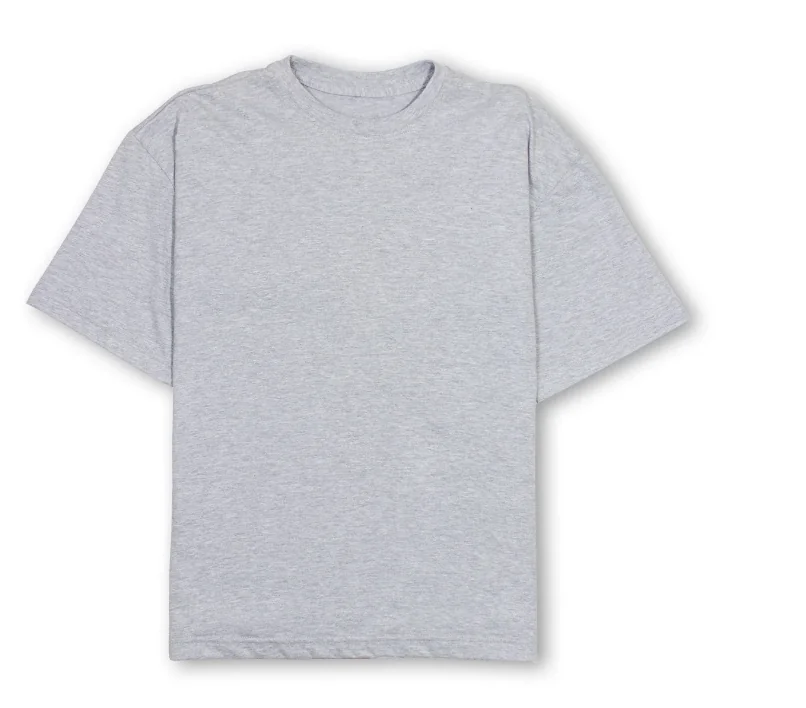
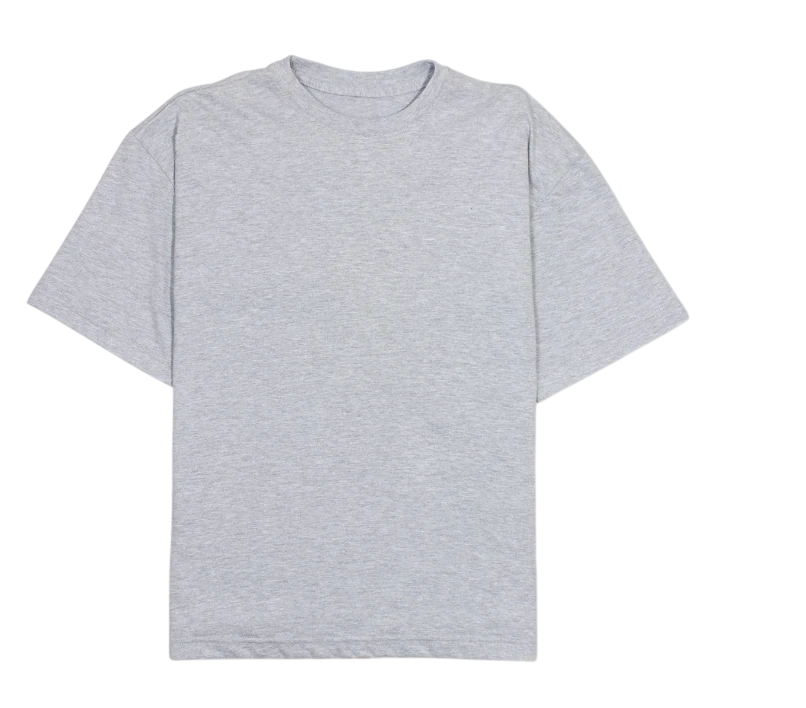
Use background-removed product photos, drop the white card
Swap in the transparent-background versions of the 6 product photos
and remove the white background box behind them in ProductCard and
CartItem, so each t-shirt floats directly on the dark card with a soft
drop shadow instead of sitting in a white square. Clean up the leftover
raw uploads (unedited originals and the raw Photoroom exports) that are
no longer referenced.

Claude-Session: https://claude.ai/code/session_01SKvkthwTi175Cfhhe1342E

diff --git a/store/src/components/ProductCard.tsx b/store/src/components/ProductCard.tsx
@@ -41,13 +41,13 @@ export default function ProductCard({ product, index }: ProductCardProps) {
       whileHover={{ y: -6 }}
       className="group flex flex-col overflow-hidden rounded-2xl border border-white/10 bg-brand-charcoal transition-colors hover:border-brand-green/40"
     >
-      <div className="relative aspect-square overflow-hidden bg-brand-white">
+      <div className="relative aspect-square overflow-hidden bg-gradient-to-b from-white/[0.04] to-transparent">
         <motion.img
           src={product.image}
           alt={product.imageAlt}
           loading="lazy"
           decoding="async"
-          className="h-full w-full object-contain p-6"
+          className="h-full w-full object-contain p-8 drop-shadow-[0_18px_24px_rgba(0,0,0,0.55)]"
           whileHover={{ scale: 1.06 }}
           whileTap={{ scale: 1.03 }}
           transition={{ duration: 0.35, ease: "easeOut" }}

diff --git a/store/src/components/Cart/CartItem.tsx b/store/src/components/Cart/CartItem.tsx
@@ -16,7 +16,7 @@ export default function CartItem({ line }: { line: CartLineDetail }) {
       transition={{ duration: 0.25 }}
       className="flex gap-3 border-b border-white/10 py-4"
     >
-      <div className="h-20 w-20 shrink-0 overflow-hidden rounded-lg bg-brand-white">
+      <div className="h-20 w-20 shrink-0 overflow-hidden rounded-lg bg-white/5">
         <img
           src={line.image}
           alt=""
